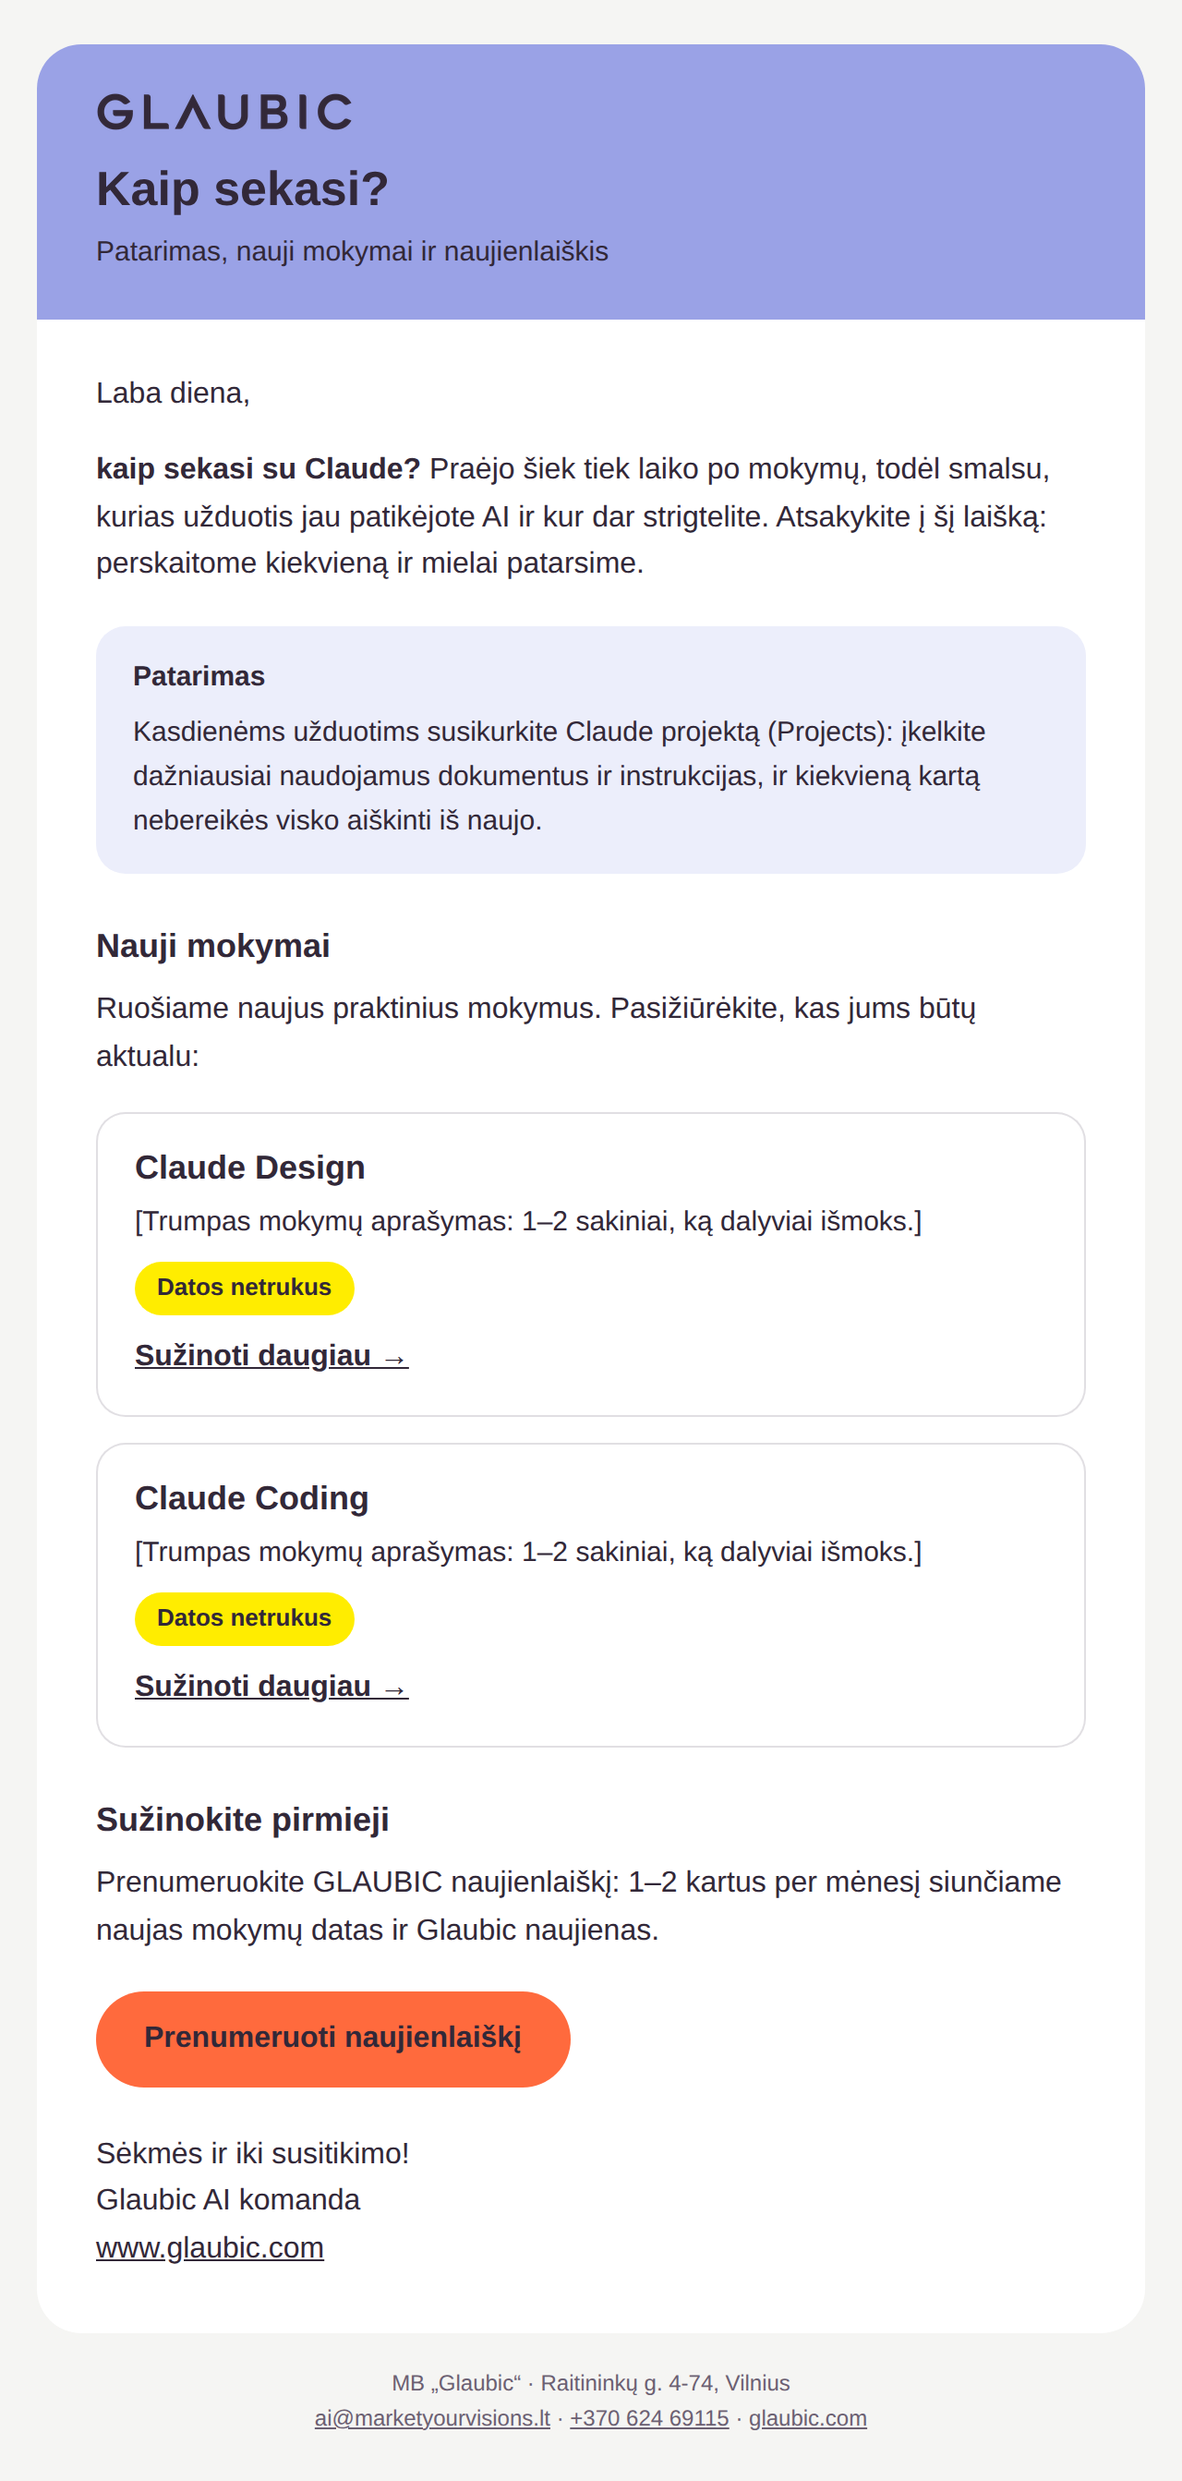
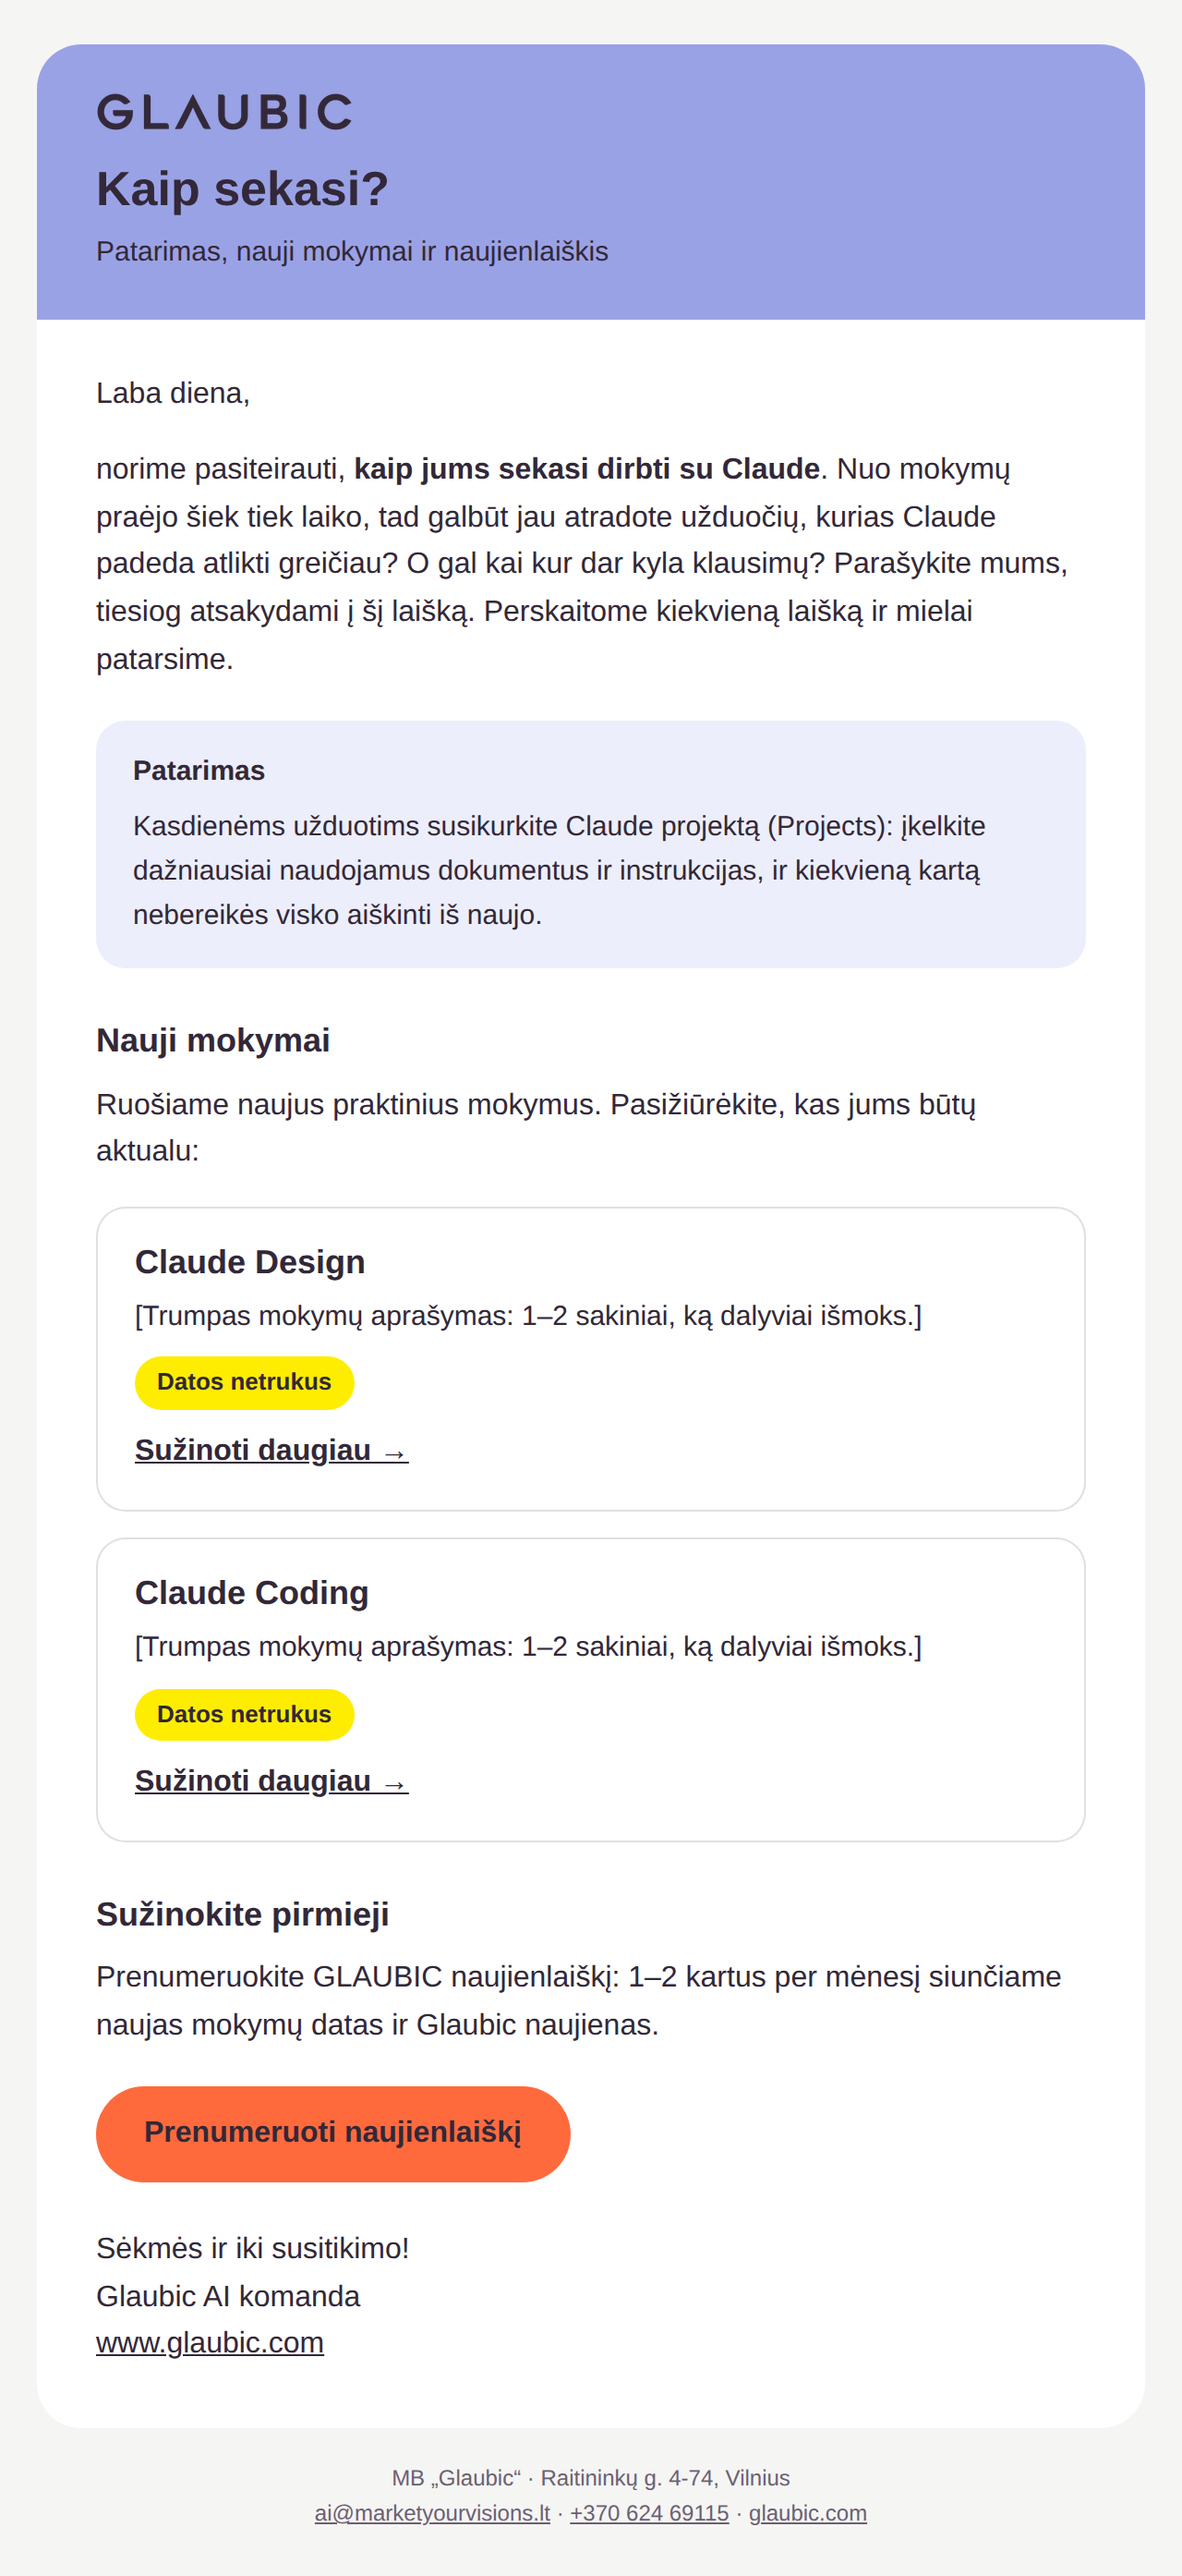
Vertės laiškas: natūralesnė pirma pastraipa ir tema
Claude-Session: https://claude.ai/code/session_01XbAhfidgisRHfbaGT3C8mi

Changed region(s): [[0.0312, 0.0309, 0.9688, 0.927], [0.4688, 0.4635, 0.7812, 0.5253], [0.2812, 0.9579, 0.7188, 0.9888]]

diff --git a/laisku-sablonai/2026-10-06-laiskas-vertes-laiskas-lt-pavyzdys.html b/laisku-sablonai/2026-10-06-laiskas-vertes-laiskas-lt-pavyzdys.html
@@ -2,7 +2,7 @@
 <html lang="lt">
 <head><meta charset="utf-8"><meta name="viewport" content="width=device-width, initial-scale=1"><meta name="color-scheme" content="light only"><meta name="supported-color-schemes" content="light"><title>Kaip sekasi?</title></head>
 <body style="margin:0;padding:0;background:#F5F5F3;">
-<div style="display:none;max-height:0;overflow:hidden;mso-hide:all;">Kaip sekasi su Claude? Patarimas ir nauji GLAUBIC mokymai.</div>
+<div style="display:none;max-height:0;overflow:hidden;mso-hide:all;">Kaip sekasi dirbti su Claude? Patarimas ir nauji GLAUBIC mokymai.</div>
 <table role="presentation" width="100%" cellpadding="0" cellspacing="0" style="background:#F5F5F3;">
   <tr><td align="center" style="padding:24px 12px;">
     <table role="presentation" width="100%" cellpadding="0" cellspacing="0" style="max-width:600px;">
@@ -13,7 +13,7 @@
       </td></tr>
       <tr><td style="background:#FFFFFF;border-radius:0 0 24px 24px;padding:28px 32px 32px;font-family:'Hanken Grotesk',Arial,Helvetica,sans-serif;font-size:16px;line-height:1.6;color:#322838;">
 <p style="margin:0 0 16px;">Laba diena,</p>
-<p style="margin:0 0 16px;"><strong>kaip sekasi su Claude?</strong> Praėjo šiek tiek laiko po mokymų, todėl smalsu, kurias užduotis jau patikėjote AI ir kur dar strigtelite. Atsakykite į šį laišką: perskaitome kiekvieną ir mielai patarsime.</p>
+<p style="margin:0 0 16px;">norime pasiteirauti, <strong>kaip jums sekasi dirbti su Claude</strong>. Nuo mokymų praėjo šiek tiek laiko, tad galbūt jau atradote užduočių, kurias Claude padeda atlikti greičiau? O gal kai kur dar kyla klausimų? Parašykite mums, tiesiog atsakydami į šį laišką. Perskaitome kiekvieną laišką ir mielai patarsime.</p>
 <table role="presentation" width="100%" cellpadding="0" cellspacing="0" style="margin:20px 0;"><tr><td style="background:#ECEEFB;border-radius:16px;padding:16px 20px;font-family:'Hanken Grotesk',Arial,Helvetica,sans-serif;font-size:15px;line-height:1.6;color:#322838;"><p style="margin:0 0 6px;font-weight:700;">Patarimas</p>Kasdienėms užduotims susikurkite Claude projektą (Projects): įkelkite dažniausiai naudojamus dokumentus ir instrukcijas, ir kiekvieną kartą nebereikės visko aiškinti iš naujo.</td></tr></table>
 <h2 style="margin:28px 0 10px;font-family:Manrope,'Hanken Grotesk',Arial,Helvetica,sans-serif;font-size:18px;line-height:1.3;font-weight:800;color:#322838;">Nauji mokymai</h2>
 <p style="margin:0 0 16px;">Ruošiame naujus praktinius mokymus. Pasižiūrėkite, kas jums būtų aktualu:</p>

diff --git a/laisku-sablonai/2026-10-06-laiskas-vertes-laiskas-lt.html b/laisku-sablonai/2026-10-06-laiskas-vertes-laiskas-lt.html
@@ -2,7 +2,7 @@
 <html lang="lt">
 <head><meta charset="utf-8"><meta name="viewport" content="width=device-width, initial-scale=1"><meta name="color-scheme" content="light only"><meta name="supported-color-schemes" content="light"><title>Kaip sekasi?</title></head>
 <body style="margin:0;padding:0;background:#F5F5F3;">
-<div style="display:none;max-height:0;overflow:hidden;mso-hide:all;">Kaip sekasi su Claude? Patarimas ir nauji GLAUBIC mokymai.</div>
+<div style="display:none;max-height:0;overflow:hidden;mso-hide:all;">Kaip sekasi dirbti su Claude? Patarimas ir nauji GLAUBIC mokymai.</div>
 <table role="presentation" width="100%" cellpadding="0" cellspacing="0" style="background:#F5F5F3;">
   <tr><td align="center" style="padding:24px 12px;">
     <table role="presentation" width="100%" cellpadding="0" cellspacing="0" style="max-width:600px;">
@@ -13,7 +13,7 @@
       </td></tr>
       <tr><td style="background:#FFFFFF;border-radius:0 0 24px 24px;padding:28px 32px 32px;font-family:'Hanken Grotesk',Arial,Helvetica,sans-serif;font-size:16px;line-height:1.6;color:#322838;">
 <p style="margin:0 0 16px;">Laba diena,</p>
-<p style="margin:0 0 16px;"><strong>kaip sekasi su Claude?</strong> Praėjo šiek tiek laiko po mokymų, todėl smalsu, kurias užduotis jau patikėjote AI ir kur dar strigtelite. Atsakykite į šį laišką: perskaitome kiekvieną ir mielai patarsime.</p>
+<p style="margin:0 0 16px;">norime pasiteirauti, <strong>kaip jums sekasi dirbti su Claude</strong>. Nuo mokymų praėjo šiek tiek laiko, tad galbūt jau atradote užduočių, kurias Claude padeda atlikti greičiau? O gal kai kur dar kyla klausimų? Parašykite mums, tiesiog atsakydami į šį laišką. Perskaitome kiekvieną laišką ir mielai patarsime.</p>
 <table role="presentation" width="100%" cellpadding="0" cellspacing="0" style="margin:20px 0;"><tr><td style="background:#ECEEFB;border-radius:16px;padding:16px 20px;font-family:'Hanken Grotesk',Arial,Helvetica,sans-serif;font-size:15px;line-height:1.6;color:#322838;"><p style="margin:0 0 6px;font-weight:700;">Patarimas</p>Kasdienėms užduotims susikurkite Claude projektą (Projects): įkelkite dažniausiai naudojamus dokumentus ir instrukcijas, ir kiekvieną kartą nebereikės visko aiškinti iš naujo.</td></tr></table>
 <h2 style="margin:28px 0 10px;font-family:Manrope,'Hanken Grotesk',Arial,Helvetica,sans-serif;font-size:18px;line-height:1.3;font-weight:800;color:#322838;">Nauji mokymai</h2>
 <p style="margin:0 0 16px;">Ruošiame naujus praktinius mokymus. Pasižiūrėkite, kas jums būtų aktualu:</p>

diff --git a/laisku-sablonai/2026-10-06-laisku-sablonu-perziura.html b/laisku-sablonai/2026-10-06-laisku-sablonu-perziura.html
@@ -120,7 +120,7 @@
     <h2>Vertės laiškas: kaip sekasi?</h2>
     <p class="when">Po mokymų (siuntimo laiką patikslinti). Naujų mokymų blokas keičiamas pagal aktualumą.</p>
     <div class="pair">
-      <figure><figcaption><b>LT</b> · Tema: <code>Kaip sekasi su Claude?</code><br>Laukai: <code>{{mokymai_1_pavadinimas}}</code>, <code>{{mokymai_1_aprasymas}}</code>, <code>{{mokymai_1_data}}</code>, <code>{{mokymai_1_nuoroda}}</code>, <code>(tas pats su 2)</code></figcaption>
+      <figure><figcaption><b>LT</b> · Tema: <code>Kaip sekasi dirbti su Claude?</code><br>Laukai: <code>{{mokymai_1_pavadinimas}}</code>, <code>{{mokymai_1_aprasymas}}</code>, <code>{{mokymai_1_data}}</code>, <code>{{mokymai_1_nuoroda}}</code>, <code>(tas pats su 2)</code></figcaption>
         <iframe src="2026-10-06-laiskas-vertes-laiskas-lt-pavyzdys.html" title="Vertės laiškas: kaip sekasi? LT"></iframe>
         <a href="2026-10-06-laiskas-vertes-laiskas-lt.html">Šablonas su laukais</a></figure>
       <figure><figcaption><b>EN</b> · Subject: <code>How are you getting on with Claude?</code><br>Fields: <code>{{training_1_name}}</code>, <code>{{training_1_description}}</code>, <code>{{training_1_date}}</code>, <code>{{training_1_url}}</code>, <code>(same for 2)</code></figcaption>

diff --git a/2026-10-06-generuoti-laisku-sablonus.py b/2026-10-06-generuoti-laisku-sablonus.py
@@ -335,7 +335,7 @@ def course_card(n, more):
 def value():
     lt_body = [
         p('Laba diena,'),
-        p('<strong>kaip sekasi su Claude?</strong> Praėjo šiek tiek laiko po mokymų, todėl smalsu, kurias užduotis jau patikėjote AI ir kur dar strigtelite. Atsakykite į šį laišką: perskaitome kiekvieną ir mielai patarsime.'),
+        p('norime pasiteirauti, <strong>kaip jums sekasi dirbti su Claude</strong>. Nuo mokymų praėjo šiek tiek laiko, tad galbūt jau atradote užduočių, kurias Claude padeda atlikti greičiau? O gal kai kur dar kyla klausimų? Parašykite mums, tiesiog atsakydami į šį laišką. Perskaitome kiekvieną laišką ir mielai patarsime.'),
         box('Kasdienėms užduotims susikurkite Claude projektą (Projects): įkelkite dažniausiai naudojamus dokumentus ir instrukcijas, ir kiekvieną kartą nebereikės visko aiškinti iš naujo.', 'Patarimas'),
         h2('Nauji mokymai'),
         p('Ruošiame naujus praktinius mokymus. Pasižiūrėkite, kas jums būtų aktualu:'),
@@ -357,11 +357,11 @@ def value():
         button('https://www.glaubic.com/en#naujienlaiskis', 'Subscribe to the newsletter'),
         signature(['Good luck and see you soon!', 'Glaubic AI team', link('https://www.glaubic.com/en', 'www.glaubic.com')]),
     ]
-    lt = layout('lt', 'Kaip sekasi?', 'Patarimas, nauji mokymai ir naujienlaiškis', 'Kaip sekasi su Claude? Patarimas ir nauji GLAUBIC mokymai.', '\n'.join(lt_body))
+    lt = layout('lt', 'Kaip sekasi?', 'Patarimas, nauji mokymai ir naujienlaiškis', 'Kaip sekasi dirbti su Claude? Patarimas ir nauji GLAUBIC mokymai.', '\n'.join(lt_body))
     en = layout('en', 'How are you getting on?', 'A tip, new training and our newsletter', 'How are you getting on with Claude? A tip and new GLAUBIC training.', '\n'.join(en_body))
     TEMPLATES.append(dict(
         key='vertes-laiskas', name='Vertės laiškas: kaip sekasi?', when='Po mokymų (siuntimo laiką patikslinti). Naujų mokymų blokas keičiamas pagal aktualumą.',
-        subject_lt='Kaip sekasi su Claude?', subject_en='How are you getting on with Claude?',
+        subject_lt='Kaip sekasi dirbti su Claude?', subject_en='How are you getting on with Claude?',
         fields_lt=['{{mokymai_1_pavadinimas}}', '{{mokymai_1_aprasymas}}', '{{mokymai_1_data}}', '{{mokymai_1_nuoroda}}', '(tas pats su 2)'],
         fields_en=['{{training_1_name}}', '{{training_1_description}}', '{{training_1_date}}', '{{training_1_url}}', '(same for 2)'],
         example={'{{mokymai_1_pavadinimas}}': 'Claude Design', '{{mokymai_1_aprasymas}}': '[Trumpas mokymų aprašymas: 1–2 sakiniai, ką dalyviai išmoks.]', '{{mokymai_1_data}}': 'Datos netrukus', '{{mokymai_1_nuoroda}}': 'https://www.glaubic.com/#kursai',
